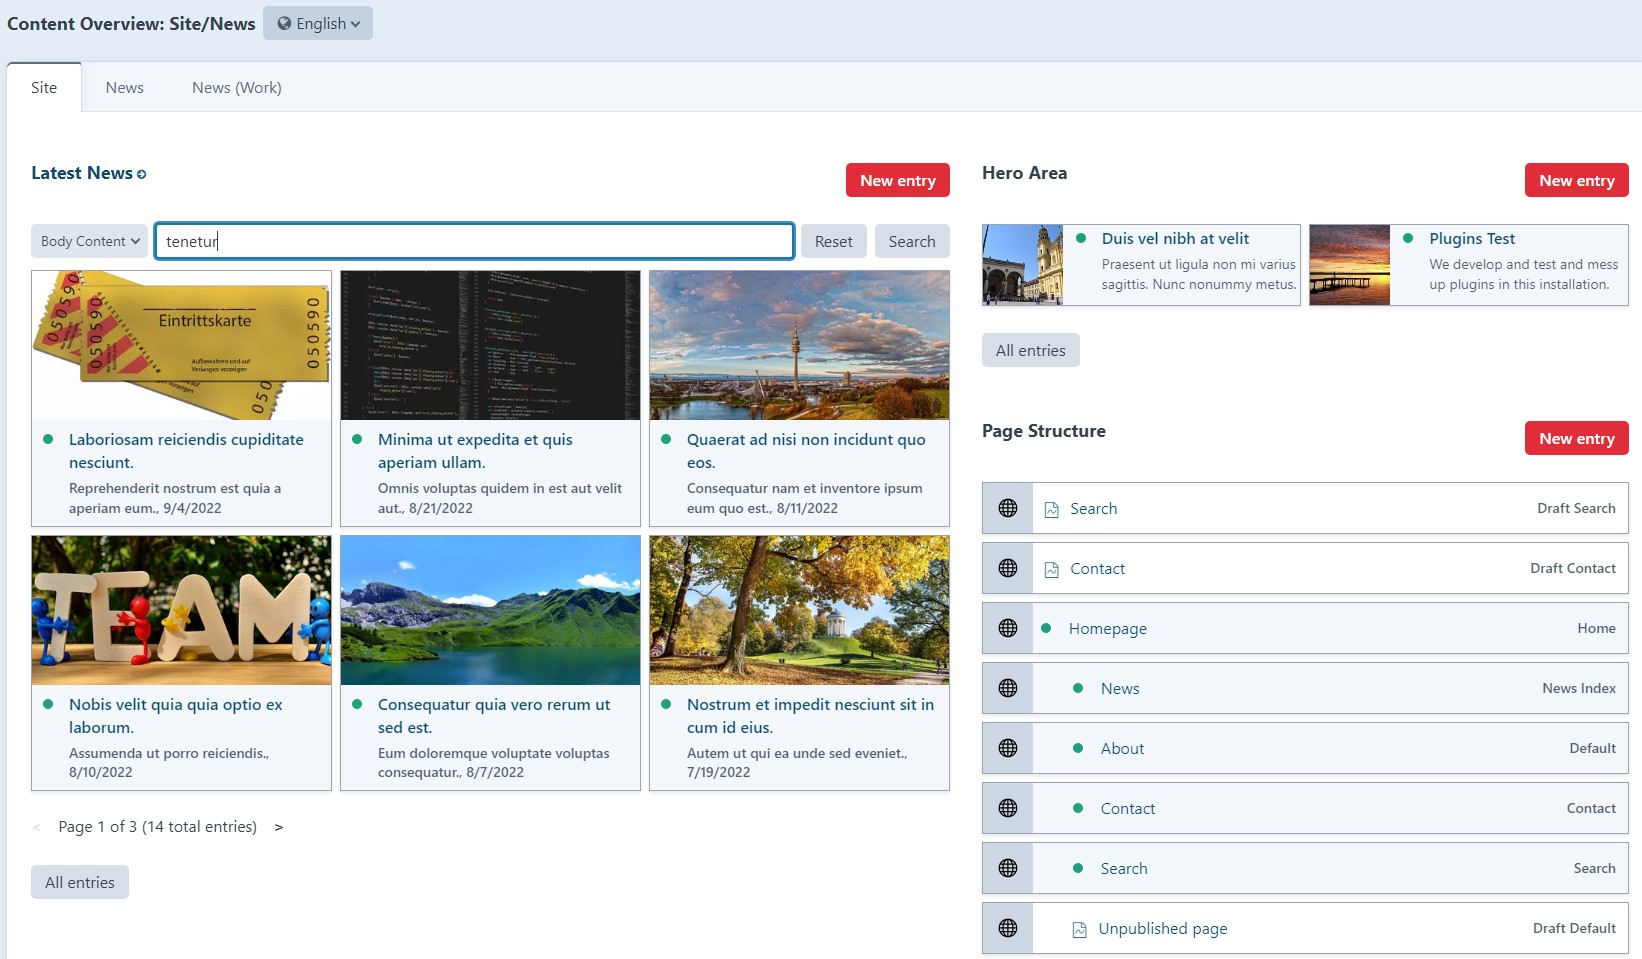
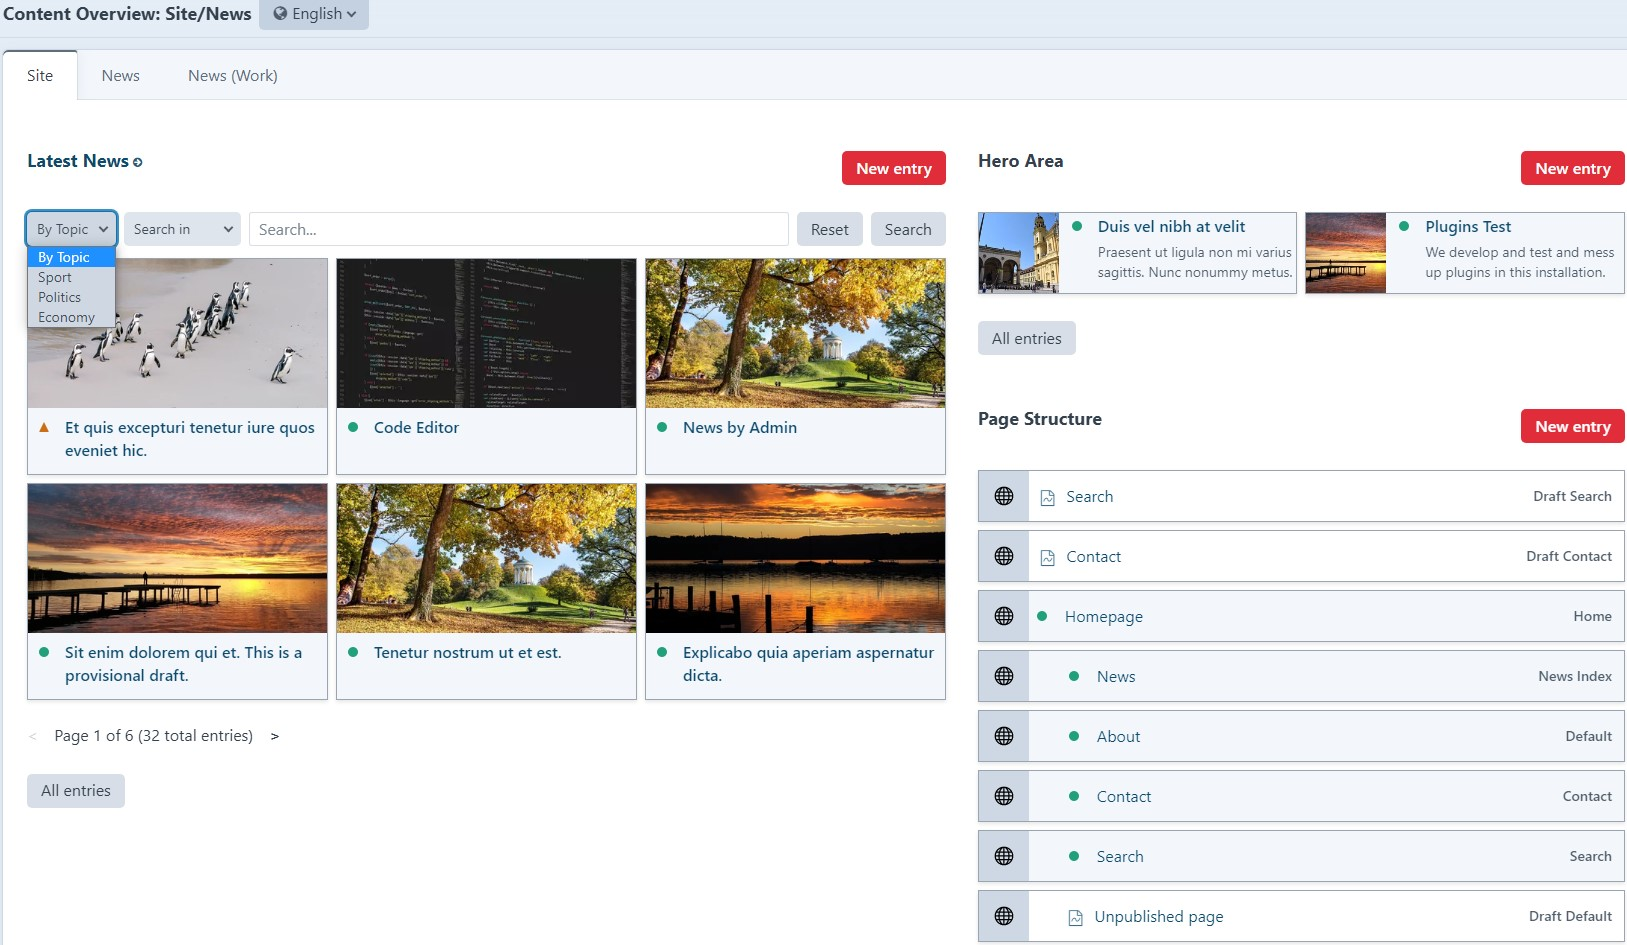
Wip

Changed region(s): [[0.0, 0.1534, 1.0, 1.0], [0.0, 0.0, 0.2459, 0.1228]]

diff --git a/src/assets/dist/cpscripts.js b/src/assets/dist/cpscripts.js
@@ -1,7 +1,12 @@
 function co_getSectionHtml(sectionPath, pageNo = 1) {
     // TODO: Add error handling
 
-    const data = {sectionPath: sectionPath, pageNo: pageNo, q: co_getSearchValue(sectionPath)}
+    const data = {
+        sectionPath: sectionPath,
+        pageNo: pageNo,
+        q: co_getSearchValue(sectionPath),
+        filters: co_getFilters(sectionPath)
+    }
     Craft.sendActionRequest('POST', 'contentoverview/section/get-section-html', {data})
         .then((response) => {
             containerElement = document.getElementById(sectionPath)
@@ -23,7 +28,7 @@ function co_getSearchValue(sectionPath) {
     value = input.value
 
     select = co_getSearchAttributesSelect(sectionPath)
-    if (select !== null)  {
+    if (select !== null) {
         attribute = select.value
         if (attribute !== '') {
             value = attribute + ':' + value
@@ -39,6 +44,9 @@ function co_resetSearch(sectionPath) {
     if (select !== null) {
         select.value = ''
     }
+
+    co_getFilterElements().forEach(element => {element.value = ''})
+
     co_getSectionHtml(sectionPath)
 }
 
@@ -50,6 +58,10 @@ function co_getSearchAttributesSelect(sectionPath) {
     return document.getElementById(sectionPath + '-search-attribute')
 }
 
+function co_getFilterElements(sectionPath) {
+    return document.getElementsByName(sectionPath + '-filter')
+}
+
 function co_registerSearchInput(sectionPath) {
     co_getSearchInput(sectionPath).addEventListener('keyup', function(event) {
         if (event.key === 'Enter') {
@@ -57,4 +69,23 @@ function co_registerSearchInput(sectionPath) {
             co_getSectionHtml(sectionPath);
         }
     })
+}
+
+function co_getFilters(sectionPath) {
+    filters = [];
+
+
+    co_getFilterElements(sectionPath).forEach(element => {
+        filter = {
+            type: element.dataset['type'],
+            field: element.dataset['field'],
+            value: element.value
+        }
+        filters.push(filter)
+    })
+
+    console.log(filters)
+
+    return filters;
+
 }

diff --git a/src/assets/dist/cpstyles.css b/src/assets/dist/cpstyles.css
@@ -218,8 +218,8 @@
     margin-left: 8px;
 }
 
-.co-search-container input.co-margin-left {
-    margin-left: 8px;
+.co-search-container > div {
+    margin-right: 8px;
 }
 
 .co-info {

diff --git a/src/models/Section.php b/src/models/Section.php
@@ -18,6 +18,7 @@ class Section extends Model
     public bool $allSites = false;
     public bool $buttons = true;
     public array $custom = [];
+    public ?array $filters = null;
     public ?string $heading = '';
     public ?string $icon = null;
     public ?string $imageField = null;
@@ -73,6 +74,20 @@ class Section extends Model
     public function custom(array $custom): self
     {
         $this->custom = $custom;
+        return $this;
+    }
+
+    /**
+     * Defines simple filters that can be applied to searches
+     *
+     * e.g. ['type' => 'relation', 'section' => 'topics' ]
+     *
+     * @param array $filters
+     * @return $this
+     */
+    public function filters(array $filters): self
+    {
+        $this->filters = $filters;
         return $this;
     }
 
@@ -354,7 +369,7 @@ class Section extends Model
      *
      * @return array with keys entries: array of entries (respecting a limit, if set), count: number of entries (without limit)
      */
-    public function getEntries($pageNo = 1, $q = ''): Paginator
+    public function getEntries(int $pageNo = 1, string $q = '', array $filters = []): Paginator
     {
         /** @var Settings $settings */
         $settings = Plugin::getInstance()->getSettings();
@@ -423,6 +438,23 @@ class Section extends Model
             $query->search($q);
             if ($this->sortByScore) {
                 $query->orderBy('score');
+            }
+        }
+
+        if ($filters) {
+            foreach ($filters as $filter) {
+                switch ($filter['type']) {
+                    case 'relation':
+                    {
+                        if ($filter['value']) {
+                            $query->andRelatedTo([
+                                'element' => $filter['value'],
+                                'field' => $filter['field']
+                            ]);
+                        }
+                        break;
+                    }
+                }
             }
         }
 

diff --git a/src/controllers/SectionController.php b/src/controllers/SectionController.php
@@ -18,6 +18,7 @@ class SectionController extends Controller
         $sectionPath = Craft::$app->request->getRequiredBodyParam('sectionPath');
         $pageNo = Craft::$app->request->getRequiredBodyParam('pageNo');
         $q = Craft::$app->request->getBodyParam('q');
+        $filters = Craft::$app->request->getBodyParam('filters');
 
         $segments = explode('-', $sectionPath);
 
@@ -34,7 +35,7 @@ class SectionController extends Controller
             throw new ForbiddenHttpException();
         }
 
-        $results = $section->getEntries($pageNo, $q);
+        $results = $section->getEntries($pageNo, $q, $filters);
 
         return $this->asJson([
             'entriesHtml' => $this->view->renderTemplate('contentoverview/partials/section.twig', [

diff --git a/CHANGELOG.md b/CHANGELOG.md
@@ -1,5 +1,13 @@
 # Changelog
 
+## Unreleased
+
+Work in progress...
+
+* Added filtering by entries fields
+* Added predefined search attributes, like `title:`
+* Added `infoTemplage` section setting
+
 ## 2.1.0 2022-11-10
 
 * Added pagination to sections.
